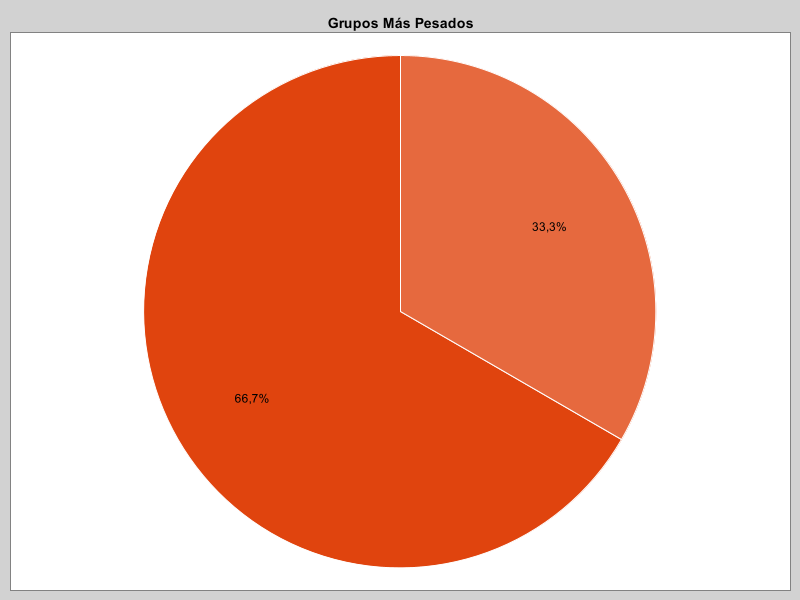
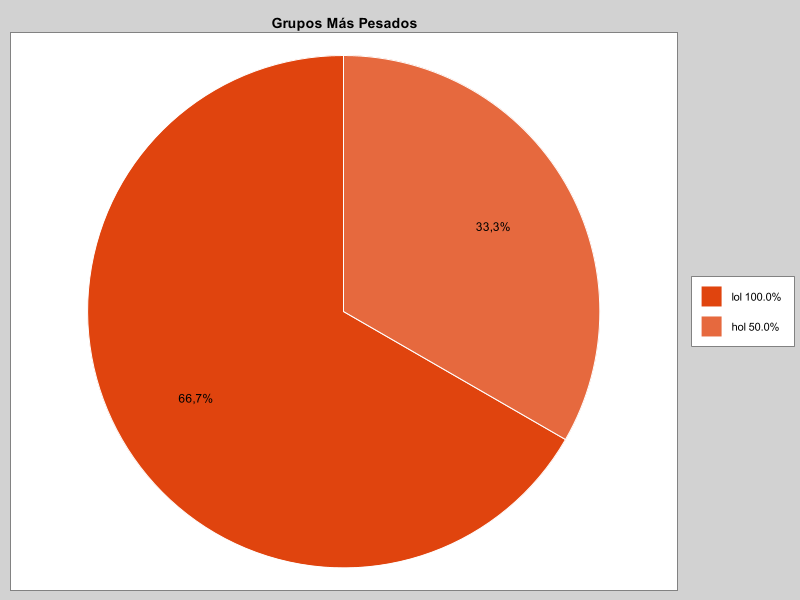
terminar estadisticas

Changed region(s): [[0.0938, 0.03, 1.0, 0.99], [0.3438, 0.03, 0.5938, 0.06], [0.2812, 0.66, 0.3438, 0.69]]

diff --git a/chatapp/src/main/java/interfaces/InterfazEstadisticas.java b/chatapp/src/main/java/interfaces/InterfazEstadisticas.java
@@ -48,8 +48,10 @@ public class InterfazEstadisticas {
 		PieChart chart = new PieChartBuilder().width(800).height(600).title("Grupos Más Pesados").build();
 
 		// Customize Chart
-		Color[] sliceColors = new Color[] { new Color(224, 68, 14), new Color(230, 105, 62)};
+		Color[] sliceColors = new Color[] { new Color(224, 68, 14), new Color(230, 105, 62) , new Color(236, 143, 110), new Color(243, 180, 159), new Color(246, 199, 182),
+				new Color(250,80,200)};
 		chart.getStyler().setSeriesColors(sliceColors);
+		chart.getStyler().setLegendVisible(true);
 		// Un mapa indexado por los 6 grupos con mas mensajes, y como valor el
 		// porcentaje de mensajes que han sido del usuarioActual.
 		HashMap<Grupo, Double> gruposMasPesados = new HashMap<Grupo, Double>();
@@ -58,7 +60,7 @@ public class InterfazEstadisticas {
 		if (gruposMasPesados != null) {
 			for (Grupo g : gruposMasPesados.keySet()) {
 				double porcentajeMensajesUsuario = gruposMasPesados.get(g);
-				chart.addSeries(g.getNombre(), porcentajeMensajesUsuario);
+				chart.addSeries(g.getNombre()+" "+ String.valueOf(porcentajeMensajesUsuario)+"%", porcentajeMensajesUsuario);
 			}
 		}
 		return chart;

diff --git a/chatapp/src/main/java/controlador/ControladorChat.java b/chatapp/src/main/java/controlador/ControladorChat.java
@@ -549,6 +549,7 @@ public class ControladorChat implements IMensajesListener {
 		for (int i = 0; i < numeroGrupos; i++) {
 			Grupo grupo = grupos.get(i);
 			double porcentaje = ((double)grupo.getMensajesCount(usuarioActual)/(double)grupo.getMensajesCount()) * 100;
+			System.out.println(porcentaje + grupo.getNombre());
 			gruposMasPesados.put(grupo, porcentaje);
 		}
 		return gruposMasPesados;
